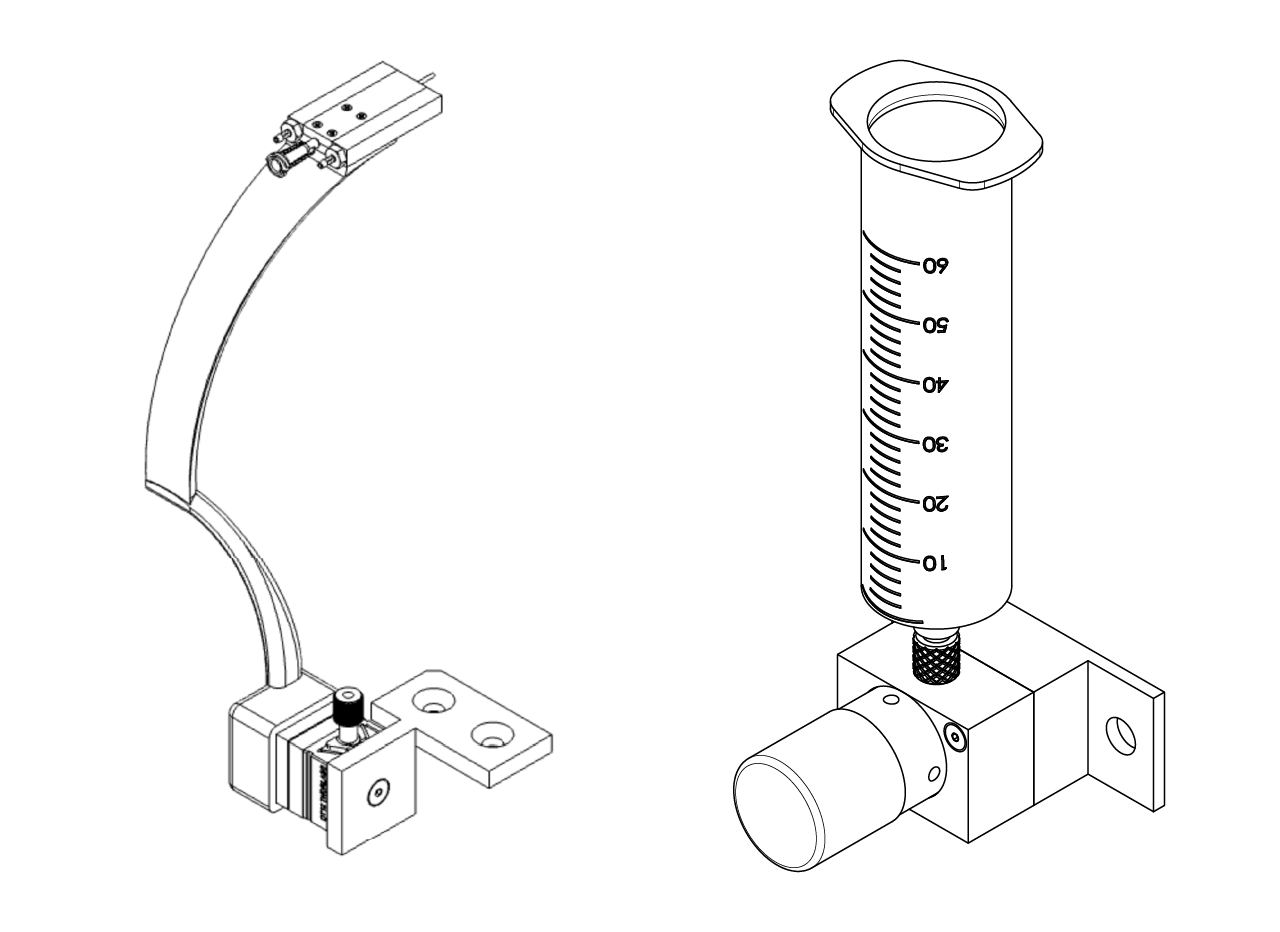
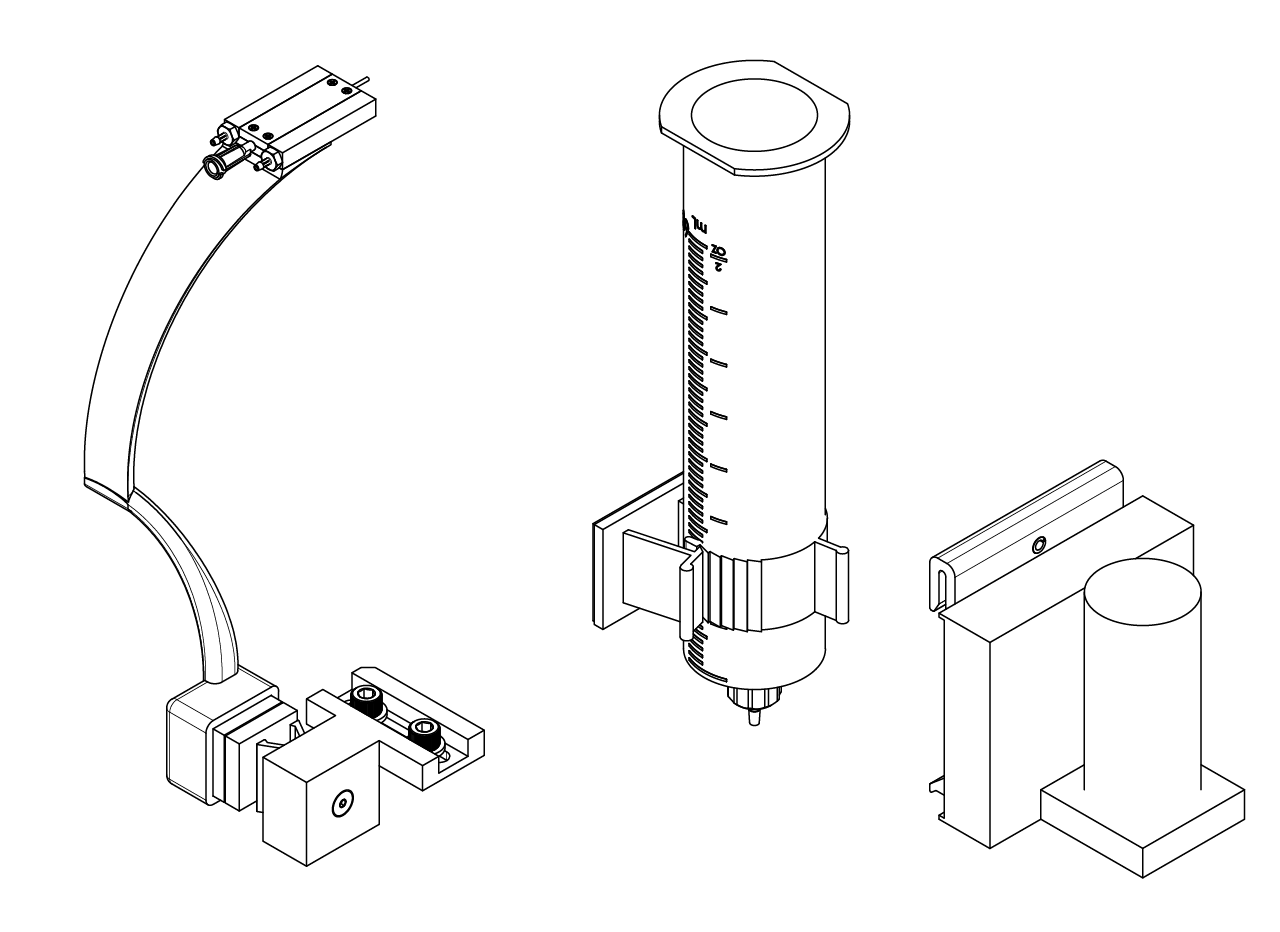
Update reward module

diff --git a/src/building/reward.md b/src/building/reward.md
@@ -12,35 +12,28 @@ The reward module consist on a open srynge that holds the reward liquid that wil
   <center><figcaption><small>Reward spout module</small></figcaption></center>
 </figure>
 
-## Solenoid valve manifold assembly
+## Solenoid valve assembly
 
-The solenoid valve dispensing component consist on a custom made stainless steel manifold that should be manufactured at a machine shop, it is designed following the recommendations from the solenoid valve manufacturer. We choose to use an isolation AS series solenoid valve from Gems sensors and controls because the body of the valve can be made of stainless steel, which is better in case a solution made out of condensed milk is used as a reward during training. The srynge is made out of glass and both the in and out connectors to the manifold are made of stainless steel, making the whole component less prone to corrotion or milk clog formation.
-
-To assemble the manifold follow the next steps.
-
-1. Have made in a machine shop the solenoid valve manifold in stainless steel (preferably 316) and the manifold to frame adapter. Screw at the top of the manifold a quick turn tube coupling for air made out of 316 stainless steel, socket for 1/4"-28 UN/UNF (SAE) threaded pipe. Screw at the bottom of the manifold a stainless steel barbed tube fitting, 1/16" tube ID x 1/4"-28 UNF male. Screw at the front of the manifold an isolation valve from Gems sensor and controls (AS2030-05MM-V-G5-204).
+The solneoid valve assembly consist of a standard plastic 60 mL srynge placed at the top of the rig conncected to a solenoid valve driver using Tygon PVC (for dairy) tubing. Since it's a gravity based module, it is recommended to place the srygne as high as possible. The srynge can be placed in the top frame of the rig cabinet using a 15/16" cable holder (you could use some thorlabs parts placed at the top of the rig to adjust the height of the srynge and place it in a higher position), remove the plunger from the srynge and use a luer lock to 1/16" ID tubing fitting to connect the srynge to the solenoid valve driver (we use the 003-0096-900 model from Parker).
 
 <figure>
-  <img src='./assets/images/reward/reward-assembly-1.png'>
+  <img src='./assets/images/reward/reward-assembly-8.png'>
+  <center><figcaption><small>Reward srynge and solenoid valve driver, reward module assembly on the right.</small></figcaption></center>
 </figure>
 
-2. Use a pair of T-Slotted framing drop-in nuts with spring tab and place them in the upper profile on the right side of the rig (where the DIN rails are), attach the manifold to frame adapter.
+To fix the reward solenoid valve to the DIN rail we use a 3D printed part, to which the solenoid valve is attached using 4-40 x 3/16" long screws and a DIN valve clip using a Rounded Head Thread-Forming Screws no. 8 5/16" long. Assemble them as shown in the picture below and attach it to the bottom DIN rail.
 
 <figure>
-  <img src='./assets/images/reward/reward-assembly-2.png'>
+  <img src='./assets/images/reward/reward-assembly-9.png'>
 </figure>
 
-3. Use a couple of 4-40 thread size, 1" long flat head screws and attach the manifold to the adapter.
+Finally, connect the srynge to the IN plug of the solenoid valve driver and connect the OUT plug to the srynge inside the rig  using 1/16" ID 1/8" OD Tygon soft tubing for food, beverages and dairy.
 
-<figure>
-  <img src='./assets/images/reward/reward-assembly-3.png'>
-</figure>
+::: tip
 
-4. Once the manifold is fixed into position, screw at the top luer lock connector a glass srynge.
+Ee don't use the cable carrier for this tubing because it has to be replaced every month and it makes maintenance time consuming.
 
-<figure>
-  <img src='./assets/images/reward/reward-assembly-4.png'>
-</figure>
+:::
 
 ## Lick spout holder assembly
 
@@ -69,5 +62,15 @@ To assemble, follow the next steps.
 <figure>
   <img src='./assets/images/reward/reward-assembly-7.png'>
 </figure>
+
+::: tip
+
+Due to inaccuracies in the 3D printed part the spout might be out of position, if this problem is present it is recommended to use a different printed breadboard to DT 12 adapter as shown in the picture below, this way the position of the reward spout can be adjusted.
+
+<figure>
+  <img src='./assets/images/reward/reward-assembly-10.png'>
+</figure>
+
+:::
 
 3. Finally place the arm with the spout holder in place by connecting the top and bottom parts of the kinetic base.
